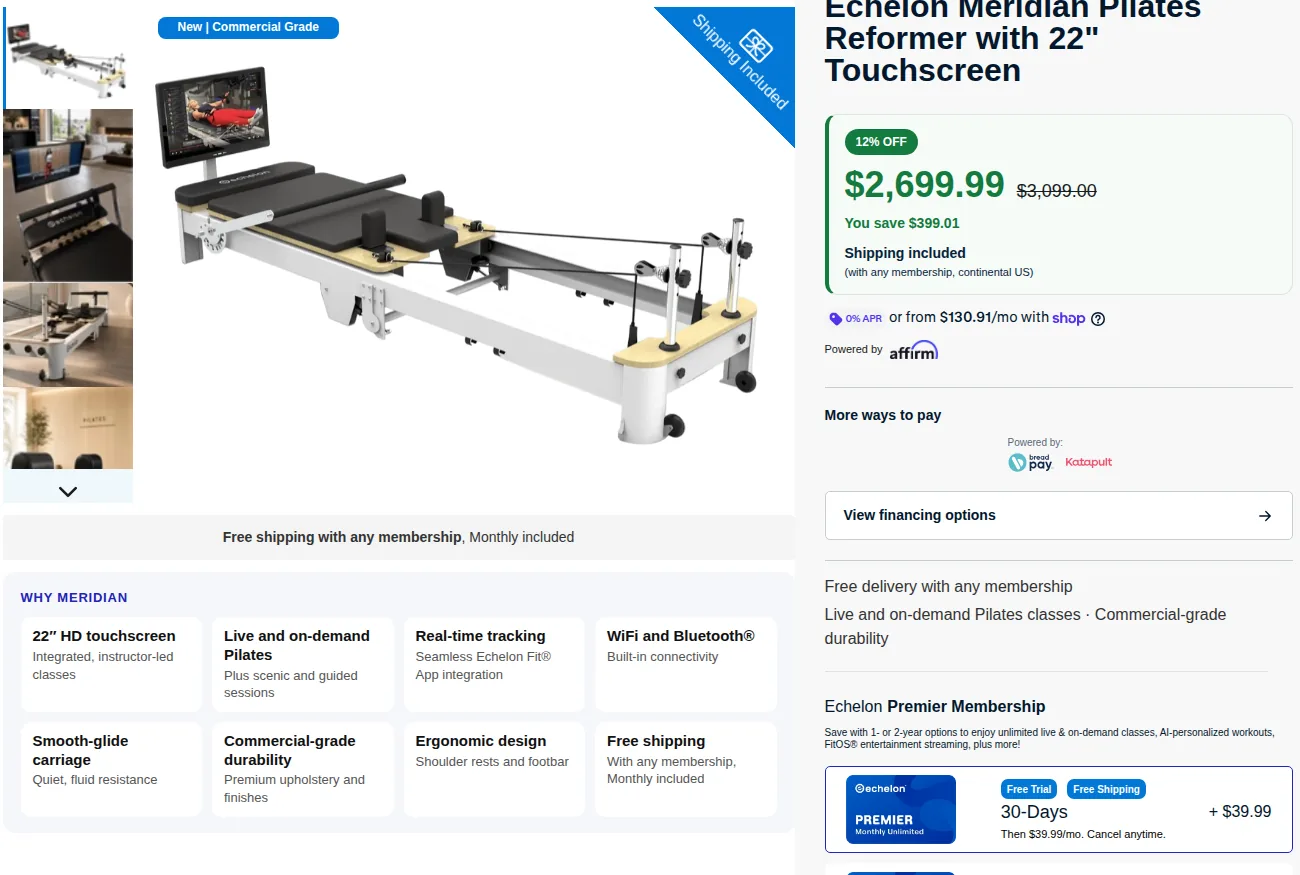
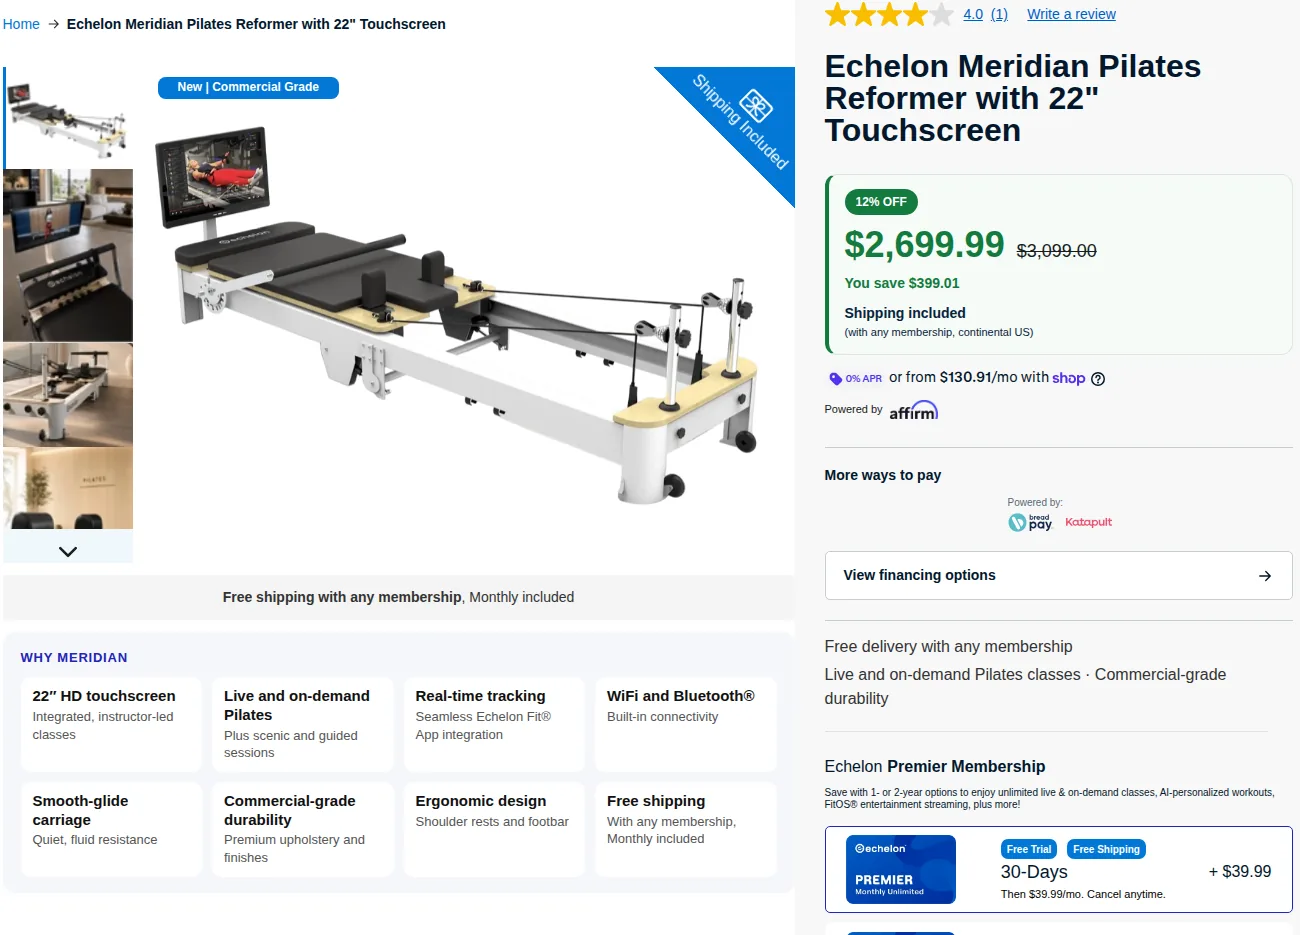
fix: show full product titles in PDP offers captures

diff --git a/client/src/pages/Home.tsx b/client/src/pages/Home.tsx
@@ -432,8 +432,8 @@ export default function Home() {
   const pdpOfferLightbox = useRef<HTMLDialogElement>(null);
   const [pdpOfferKey, setPdpOfferKey] = useState<"reformer" | "rows">("reformer");
   const pdpOfferPreviews = {
-    reformer: { image: "./assets/portfolio-reformer-free-freight.webp", width: 1300, height: 875, label: "Meridian reformer", detail: "Free freight with any membership", alt: "Live Echelon Meridian 22-inch reformer product page with a Shipping Included ribbon on the main image, a sale price box reading Shipping included with any membership, continental US, and a Why Meridian feature grid under the gallery." },
-    rows: { image: "./assets/portfolio-row-s-free-soundbar.webp", width: 1300, height: 875, label: "Row-S", detail: "Free Soundbar through Dec 1", alt: "Live Echelon Row-S product page with a Free Speaker ribbon on the main image, a free Echelon Soundbar row inside the Doorbusters price box, and the top of a Black Friday bonus card under the gallery." },
+    reformer: { image: "./assets/portfolio-reformer-free-freight.webp", width: 1300, height: 935, label: "Meridian reformer", detail: "Free freight with any membership", alt: "Live Echelon Meridian 22-inch reformer product page with a Shipping Included ribbon on the main image, a sale price box reading Shipping included with any membership, continental US, and a Why Meridian feature grid under the gallery." },
+    rows: { image: "./assets/portfolio-row-s-free-soundbar.webp", width: 1300, height: 935, label: "Row-S", detail: "Free Soundbar through Dec 1", alt: "Live Echelon Row-S product page with a Free Speaker ribbon on the main image, a free Echelon Soundbar row inside the Doorbusters price box, and the top of a Black Friday bonus card under the gallery." },
   };
   const pdpOfferPreview = pdpOfferPreviews[pdpOfferKey];
   const financingPreviews = {

diff --git a/client/src/portfolio-cases.css b/client/src/portfolio-cases.css
@@ -49,6 +49,7 @@
 .offer-case-image-button img { max-height: 680px; object-fit: cover; object-position: top; }
 .offer-case .regional-lightbox > img { max-height: 80vh; margin-inline: auto; }
 .offer-case-gallery--wide { max-width: none; }
+.offer-case-gallery--wide .offer-case-image-button img { max-height: none; }
 @media (max-width: 640px) {
   .offer-case-gallery { grid-template-columns: 1fr; max-width: 380px; }
   .offer-case-gallery--wide { max-width: none; }
